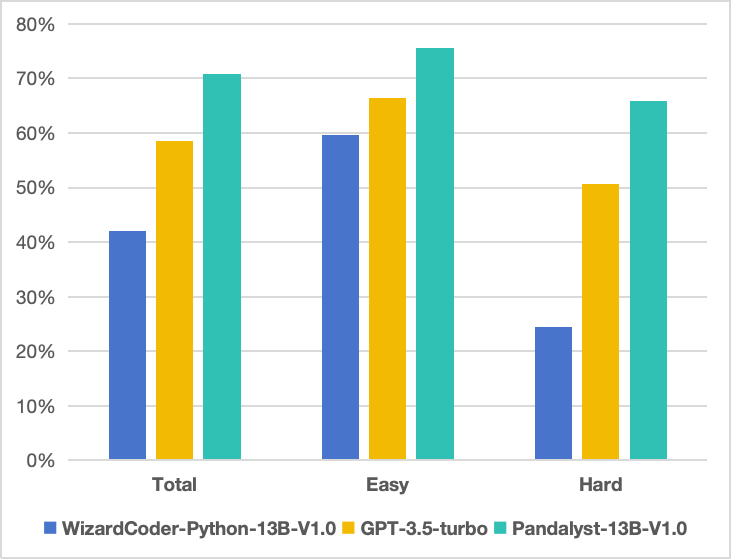
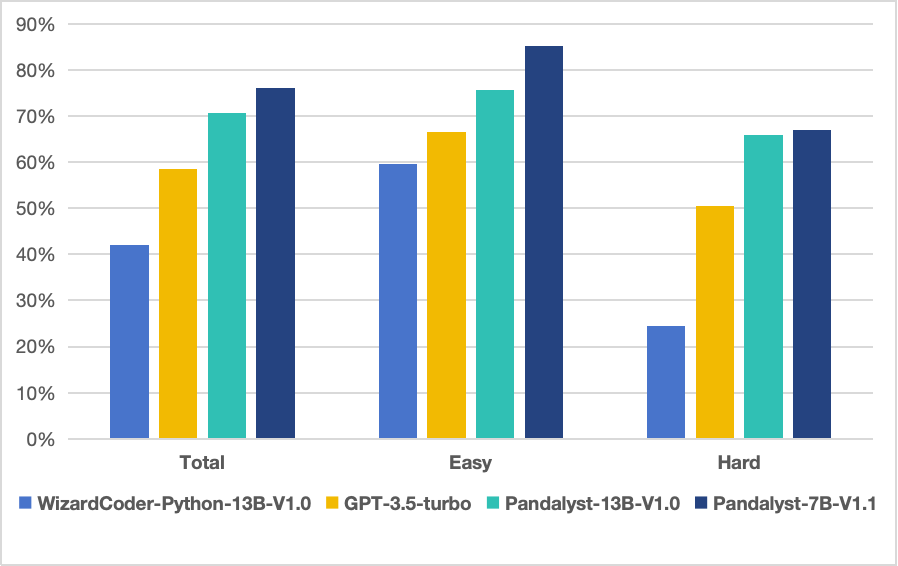
update Pandalyst-7B-V1.1

diff --git a/README.md b/README.md
@@ -21,14 +21,14 @@
 - Pandalyst has very competitive performance, significantly outperforming models of the same size and even outperforming some of the strongest closed-source models.
 
 ## News
-
-- 🔥[2023/09/28] We released **Pandalyst-13B-V1.0** , which achieves the **70.7 exec@1** in our **PandaTest_V1.0** and surpasses **WizardCoder-Python-13B-V1.0** and **ChatGPT-3.5 (2023/06/13)**.
+- 🔥[2023/09/30] We released **Pandalyst-7B-V1.1** , which was trained on **CodeLlama-7b-Python** and achieves the **0.76 exec@1** in our **PandaTest_V1.0** and surpasses **Pandalyst-13B-V1.0**, **WizardCoder-Python-13B-V1.0** and **ChatGPT-3.5 (2023/06/13)**.
+- 🔥[2023/09/28] We released **Pandalyst-13B-V1.0** , which was trained on **WizardCoder-Python-13B-V1.0** and achieves the **70.7 exec@1** in our **PandaTest_V1.0** and surpasses **WizardCoder-Python-13B-V1.0** and **ChatGPT-3.5 (2023/06/13)**.
 
 
 | Model              | Checkpoint                                                                                  | PandaTest_V1.0 | EASY | HARD | License |
 |--------------------|---------------------------------------------------------------------------------------------|----------------|---------------------|---------------------|  ----- | 
 | Pandalyst-13B-V1.0 | 🤗 <a href="https://huggingface.co/pipizhao/Pandalyst_13B_V1.0" target="_blank">HF Link</a> | 70.7           | 75.6                | 65.9                |  <a href="https://ai.meta.com/resources/models-and-libraries/llama-downloads/" target="_blank">Llama2</a>  |
-| Pandalyst-7B-V1.0  | coming soon                                                                                 | -              | -                   | -                   |  <a href="https://ai.meta.com/resources/models-and-libraries/llama-downloads/" target="_blank">Llama2</a>  |
+| Pandalyst-7B-V1.1  | 🤗 <a href="https://huggingface.co/pipizhao/Pandalyst-7B-V1.1" target="_blank">HF Link</a>  | 76.1              | 85.2                   | 67.0                   |  <a href="https://ai.meta.com/resources/models-and-libraries/llama-downloads/" target="_blank">Llama2</a>  |
 
 
 ## Performance
@@ -38,10 +38,11 @@
 ### Metric: **Executable Rate of Generated Code (%)**
 
 | Model                       | PandaTest_V1.0<br/>exec@1 | EASY<br/>exec@1 | HARD<br/>exec@1 |
-|-----------------------------|---------------------------|-----------------|-----------------|
-| GPT-3.5-turbo-0613          | 58.5                      | 66.5            | 50.6            |
-| WizardCoder-Python-13B-V1.0 | 42.0                      | 59.7            | 24.4            |
-| Pandalyst-13B-V1.0          | **70.7**                  | **75.6**        | **65.9**        |
+|-----------------------------|-----------------------|-------------|-------------|
+| GPT-3.5-turbo-0613          | 58.5                  | 66.5        | 50.6        |
+| WizardCoder-Python-13B-V1.0 | 42.0                  | 59.7        | 24.4        |
+| Pandalyst-13B-V1.0          | 70.7                  | 75.6        | 65.9        |
+| Pandalyst-7B-V1.1           | **76.1**              | **85.2**    | **67.0**    |
 
 
 <p align="left">
@@ -55,6 +56,8 @@
     <img src="imgs/human_eval.png" width="400"/>
 </p>
 
+- As the results shown, The performance of **Pandalyst-13B-V1.0** and **Pandalyst-7B-V1.1** is similar. 
+- Since the 7B model achieves a higher executable rate, I recommend that you try the **Pandalyst-7B-V1.1** first.
 - Thank you for your understanding that manually evaluating the accuracy of code takes a lot of time.
 
 ### Case show
@@ -145,6 +148,7 @@ import pandas as pd
 import torch
 
 model_name = "pipizhao/Pandalyst_13B_V1.0"
+# model_name = "pipizhao/Pandalyst_7B_V1.1"
 
 model = transformers.AutoModelForCausalLM.from_pretrained(
     model_name,
@@ -187,7 +191,7 @@ print(answer)
 | Todo List                                        | state       | Timeline |
 |--------------------------------------------------|-------------|----------|
 | Realse Pandalyst-13B-V1.0                        | Done     ✅  | 0928     |
-| Realse Pandalyst-7B-V1.0                         | Training ▶ | Soon     |
+| Realse Pandalyst-7B-V1.1                         | Done     ✅ | 0930     |
 | Support plotting capabilities                    | Building ▶ | October  |
 | Higher quality training and more powerful models | Panding  ⏸  | -        |
 | Supports multiple tables                         | Panding  ⏸  | -        |
@@ -200,7 +204,6 @@ print(answer)
     <img src="imgs/method.jpg" width="500"/>
 </p>
 
-**We train Pandalyst based on WizardCoder.**
 ## 🤝 Contributing
 
 Contributions are welcome! If you can provide any comments or data support, please feel free to contact us or just open a issue!
